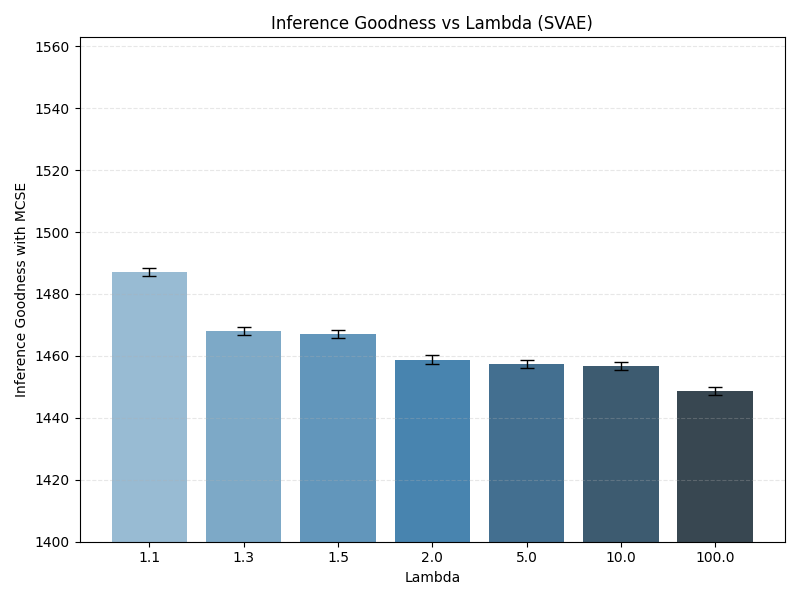
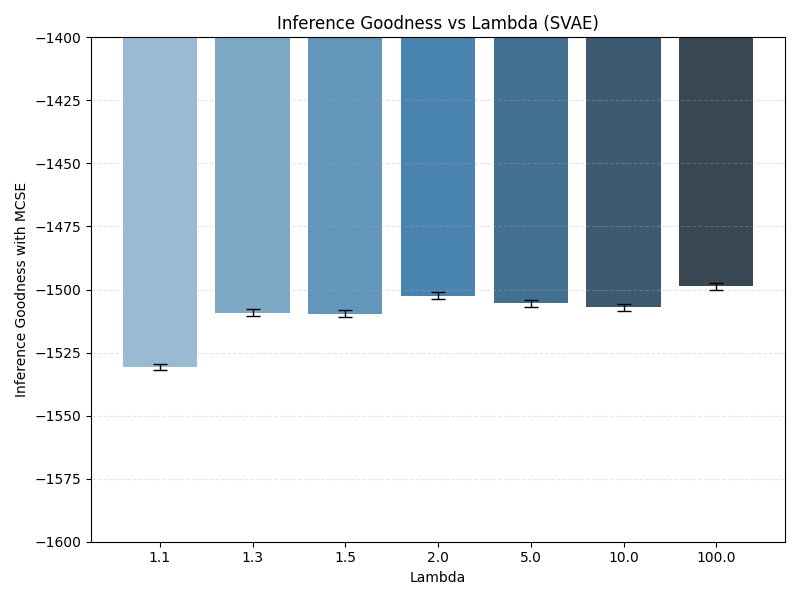
SVAE for inference goodness

diff --git a/svae/stochastic_vae.py b/svae/stochastic_vae.py
@@ -119,12 +119,12 @@ class Stochastic_VAE(lit.LightningModule):
             dim=self.n_forward_dim
         )
 
-        entropy_gap = (reconstruction_term + log_p_z) - singh_entropy_term   #shape [batch_size]
+        entropy_gap = -(reconstruction_term + log_p_z) - singh_entropy_term   #shape [batch_size]
 
         mean = entropy_gap.mean()
         second_moment = (entropy_gap**2).mean()
 
-        return mean, second_moment
+        return mean, second_moment, singh_entropy_term.mean()
 
     
     def configure_optimizers(self):
@@ -265,13 +265,14 @@ class Stochastic_VAE(lit.LightningModule):
         temp_dir = "svae/output"
         x, _ = batch
         loss, kl_term, reconstruction_term, entropy_term, x_recon, multi_mu_z_mean, multi_logvar_z_mean, _ = self.loss(x)
-        entropy_gap_mean, entropy_gap_moment2 = self.inference_entropy_gap_m_p(x)
+        entropy_gap_mean, entropy_gap_moment2, singh_entropy_term = self.inference_entropy_gap_m_p(x)
         self.log("test_loss", loss)
         self.log("test_kl", kl_term)
         self.log("entropy gap--m_p", entropy_gap_mean)
         self.log("entropy gap second moment", entropy_gap_moment2)
-        # self.log("val_reconstruction", reconstruction_term)
-        # self.log("val_entropy", entropy_term)
+        self.log("val_reconstruction", reconstruction_term)
+        self.log("val_entropy", entropy_term)
+        self.log("singh_entropy_H_m", singh_entropy_term)
         self.log("test_multi_mu_z_mean", multi_mu_z_mean)
         self.log("test_multi_logvar_z_mean", multi_logvar_z_mean)
         

diff --git a/svae/main.py b/svae/main.py
@@ -62,7 +62,7 @@ def main():
     #####################
 
     logger = MLFlowLogger(
-        experiment_name="LitSVAE",
+        experiment_name="LitSVAE_inference",
         tracking_uri=MLFLOW_TRACKING_URI,
         log_model=True,
     )
@@ -98,8 +98,6 @@ def main():
     # ablation study Part 2 --- freeze decoder
     if args.freeze_decoder:
         checkpoint = torch.load("603393962448548868/bc47b5faee3e4618aa8232ae44fb7980/checkpoints/epoch=999-step=469000.ckpt", map_location="cpu")
-
-        # init_params = {k: p.detach().clone() for k, p in svae.named_parameters()}
 
         for name, param in svae.named_parameters():
             if 'decoder' in name:
@@ -145,7 +143,7 @@ def main():
                         "stage": "testing_inference",
                         "data": "validation",
                         "author": "Shounak Desai",
-                        "model": "Stochastic VAE",
+                        "model": "SVAE",
                         "lambda": LAMBDA,
                         })
                         

diff --git a/svae/query_inference_plot.py b/svae/query_inference_plot.py
@@ -55,19 +55,20 @@ def plot_inference_goodness(df):
     plt.title("Inference Goodness vs Lambda (SVAE)")
     plt.grid(True, axis='y', linestyle='--', alpha=0.3)
     # plt.xticks(rotation=45)
-    plt.ylim(1400)
+    plt.ylim(-1600, -1400)
     plt.tight_layout()
     plt.savefig('svae/plots/lambda_v_inference_goodness_mcse.png')
     plt.show()
 
 
 def main():
-    experiment_name = "LitSVAE"
+    experiment_name = "LitSVAE_inference"
     experiment = mlflow.get_experiment_by_name(experiment_name)
     experiment_id = experiment.experiment_id
-    tag_filter = "tags.stage = 'testing_inference'"
+    # tag_filter = "tags.stage = 'testing inference--entropy gap'"
+    # runs_df = mlflow.search_runs(experiment_ids=experiment_id, filter_string=tag_filter)
     runs_df = mlflow.search_runs(experiment_ids=experiment_id)
-    # print(runs_df.columns)
+    # print(runs_df['metrics.Test ELBO'])
 
     plot_inference_goodness(runs_df)
 

diff --git a/svae/training_config.py b/svae/training_config.py
@@ -8,7 +8,7 @@ PLAN = [500, 300, 200, 100, 50]
 PLAN_DECODER = [50, 100, 300, 500]
 LATENT_DIM = 20
 EPSILON = 1e-6
-LAMBDA = 100      # range [1, +inf]
+LAMBDA = 10e+16      # range [1, +inf]
 NUMBER_OF_NEAREST_NEIGHBORS = 4
 N_FORWARD_PASS = 8
 #####################
